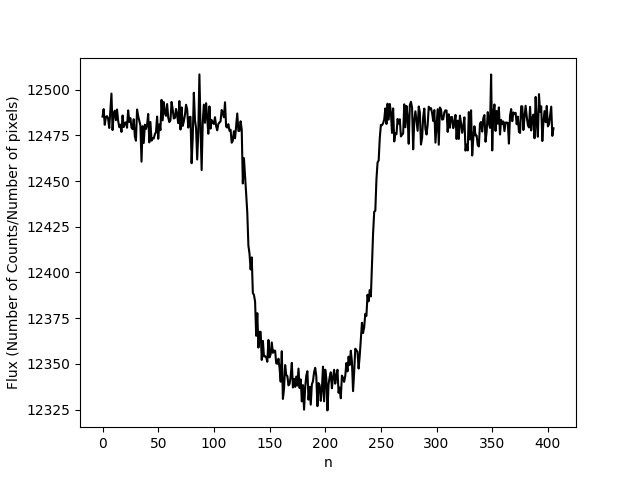
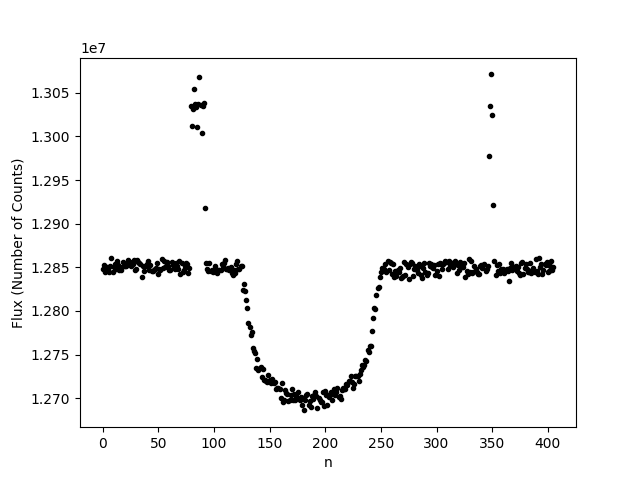
Changed method of calculating dispersion to std/mean of first 50 flux points

diff --git a/src/photometry.py b/src/photometry.py
@@ -7,7 +7,7 @@ t0 = clock()
 
 ######### Opening images #########
 
-hdulist = fits.open("TrabalhoComputacional/CH_PR100010_TG023201_TU2019-10-06T09-40-30_SCI_RAW_SubArray_V0000.fits")
+hdulist = fits.open("../../TrabalhoComputacional/CH_PR100010_TG023201_TU2019-10-06T09-40-30_SCI_RAW_SubArray_V0000.fits")
 
 # Header
 header_subarray = hdulist[1].header
@@ -26,13 +26,13 @@ overscanleft = hdulist[7].data
 
 # Applying Overscan to Images (Average over all points of the overscan)
 
-images_b = np.zeros(images.shape) # Images without BIAS # IF USING ZEROS_LIKE, STRANGE BUG
+images_b = np.zeros(images.shape) # Images without BIAS
 for i in range(nimage):
 	images_b[i] = images[i] - np.average(overscanleft[i])
 
 ######### Flat Field #########
 
-hdulist_ff = fits.open("TrabalhoComputacional/CH_PR100010_TG023201_TU2019-10-06T09-40-00_SIM_TRU_FlatField_V0000.fits")
+hdulist_ff = fits.open("../../TrabalhoComputacional/CH_PR100010_TG023201_TU2019-10-06T09-40-00_SIM_TRU_FlatField_V0000.fits")
 
 # Determining Flat Field subarray with the Object
 ff = hdulist_ff[1].data
@@ -75,8 +75,8 @@ for i in range(nimage):
 
 from canny_edge_detection import canny_detect
 
-sigma = 0.6
-T = 4000
+sigma = 1.1
+T = 3500
 t = T*0.3
 
 target_indx = canny_detect(images_filt[0],R[0],sigma,t,T) # Indexes of the target's area
@@ -100,42 +100,58 @@ for i in range(nimage):
 	hist, bins = np.histogram(img[(r_i > r_min)],bins=1000)
 
 	background_mode[i] = np.min(bins[np.where(hist == np.max(hist))])
+
+	background_avg[i] = np.average(img[(r_i > r_min)])
 	
 	img -= background_mode[i]
+	#img -= background_avg[i]
 
 	N_counts[i] = np.sum(img[target_indx[0] - 100 + R[i][1],target_indx[1] - 100 + R[i][0]])
 
 print(clock()-t0)
 
-Flux = N_counts/target_indx.size
+Flux = N_counts
+
+img_pts = np.arange(0,nimage,1)
 
 plt.figure(1)
-plt.plot(Flux,color='k')
-plt.ylabel('Flux (Number of Counts/Number of pixels)')
+plt.scatter(img_pts,Flux,color='k',marker='.')
+plt.ylabel('Flux (Number of Counts)')
 plt.xlabel('n')
 
 plt.figure(2)
-plt.plot(background_mode,color='k')
+plt.scatter(img_pts,background_mode,color='k',marker='.')
 plt.ylabel('Background Mode')
 plt.xlabel('n')
 
 plt.figure(3)
-plt.plot(background_avg,color='k')
+plt.scatter(img_pts,background_avg,color='k',marker='.')
 plt.ylabel('Background Average')
 plt.xlabel('n')
 
+plt.show()
+
+"""
 # Calculate dispersion
 dispersion = abs((Flux - np.roll(Flux,1))/(np.max(Flux)-np.min(Flux))*100)
 plt.figure(4)
-plt.plot(dispersion,color='k')
-plt.ylabel('Dispersion (\% of max(Flux) - min(Flux))')
+plt.scatter(img_pts,dispersion,color='k',marker='.')
+plt.ylabel('Dispersion (%) (% of max(Flux) - min(Flux))')
 plt.xlabel('n')
+"""
+# Calculate standard deviation
+
+N = 50
+std_dev = np.std(Flux[:N])/np.mean(Flux[:N])*100
+
+print('Standard deviation of first %s points is: %s' %(N,round(std_dev,3)) + '%')
 
 ##### Optimization #####
-"""
-T_vals = np.arange(1000,10000,200)
+
+T_vals = np.arange(1000,20000,400)
 #T_vals = np.arange(2000,6000,50) # MINIMO DE DISPERSAO PARA T ~= 3500
 dispersion = np.zeros(len(T_vals))
+max_Flux = np.zeros(len(T_vals))
 for k in range(len(T_vals)):
 	T = T_vals[k]
 	print(T)
@@ -191,15 +207,23 @@ for k in range(len(T_vals)):
 	Flux = N_counts/target_indx.size
 
 	# Calculate dispersion
-	dispersion[k] = np.max((Flux - np.roll(Flux,1))/(np.max(Flux)-np.min(Flux))*100)
+	dispersion[k] = np.std(Flux[:N])/np.mean(Flux[:N])*100
+	max_Flux[k] = np.average(Flux)
 
 plt.figure(5)
 plt.plot(T_vals,dispersion,color='k')
-plt.ylabel('Dispersion (\% of max(Flux) - min(Flux))')
+plt.ylabel('Dispersion (%)')
 plt.xlabel('Higher Threshold values')
-plt.xticks(np.arange(1000,11000,1000))
+plt.xticks(np.arange(1000,21000,2000))
 
-S_vals = np.arange(0.1,1,0.05) # MINIMO DE DISPERSÃO PARA 0.5 SIGMA\
+plt.figure(1213)
+plt.plot(T_vals,max_Flux,color='k')
+plt.ylabel('Average of Flux')
+plt.xlabel('Higher Threshold values')
+plt.xticks(np.arange(1000,21000,2000))
+
+
+S_vals = np.arange(0.1,2.,0.05) # MINIMO DE DISPERSÃO PARA 0.5 SIGMA\
 dispersion = np.zeros(len(S_vals))
 for k in range(len(S_vals)):
 	sigma = S_vals[k]
@@ -256,18 +280,18 @@ for k in range(len(S_vals)):
 	Flux = N_counts/target_indx.size
 
 	# Calculate dispersion
-	dispersion[k] = np.max((Flux - np.roll(Flux,1))/(np.max(Flux)-np.min(Flux))*100)
+	dispersion[k] = np.std(Flux[:N])/np.mean(Flux[:N])*100
 
 plt.figure(6)
 plt.plot(S_vals,dispersion,color='k')
-plt.ylabel('Dispersion (\% of max(Flux) - min(Flux))')
+plt.ylabel('Dispersion (%)')
 plt.xlabel('Sigma values')
-plt.xticks(np.arange(0.1,1.1,0.1))
+plt.xticks(np.arange(0.1,2.1,0.1))
 
 
 T = 4000
 
-t_vals = np.arange(0.1,1,0.05) # MINIMO DE DISPERSÃO PARA 0.5 SIGMA\
+t_vals = np.arange(0.1,1,0.5) # MINIMO DE DISPERSÃO PARA 0.5 SIGMA\
 dispersion = np.zeros(len(t_vals))
 for k in range(len(t_vals)):
 	sigma = S_vals[k]
@@ -324,13 +348,13 @@ for k in range(len(t_vals)):
 	Flux = N_counts/target_indx.size
 
 	# Calculate dispersion
-	dispersion[k] = np.max((Flux - np.roll(Flux,1))/(np.max(Flux)-np.min(Flux))*100)
+	dispersion[k] = np.std(Flux[:N])/np.mean(Flux[:N])*100
 
 plt.figure(7)
 plt.plot(t_vals,dispersion,color='k')
-plt.ylabel('Dispersion (\% of max(Flux) - min(Flux))')
+plt.ylabel('Dispersion (%)')
 plt.xlabel('Lower Threshold values (fraction of Higher Threshold)')
-plt.xticks(np.arange(0.1,1.1,0.1))
+plt.xticks(np.arange(0.1,1.1,0.25))
 """
 """
 r_CM_vals = np.arange(10,80,5)
@@ -392,11 +416,11 @@ for k in range(len(r_CM_vals)):
 	Flux = N_counts/target_indx.size
 
 	# Calculate dispersion
-	dispersion[k] = np.max((Flux - np.roll(Flux,1))/(np.max(Flux)-np.min(Flux))*100)
+	dispersion[k] = np.std(Flux[:N])/np.mean(Flux[:N])*100
 
 plt.figure(8)
 plt.plot(r_CM_vals,dispersion,color='k')
-plt.ylabel('Dispersion (\% of max(Flux) - min(Flux))')
+plt.ylabel('Dispersion (%)')
 plt.xlabel('Square side used for CM calculation')
 plt.xticks(np.arange(10,80,10))
 
@@ -460,12 +484,12 @@ for k in range(len(r_min_vals)):
 	Flux = N_counts/target_indx.size
 
 	# Calculate dispersion
-	dispersion[k] = np.max((Flux - np.roll(Flux,1))/(np.max(Flux)-np.min(Flux))*100)
+	dispersion[k] = np.std(Flux[:N])/np.mean(Flux[:N])*100
 
 plt.figure(9)
 plt.plot(r_CM_vals,dispersion,color='k')
-plt.ylabel('Dispersion (\% of max(Flux) - min(Flux))')
+plt.ylabel('Dispersion (%)')
 plt.xlabel('Radius used for Background calculation')
 plt.xticks(np.arange(10,80,10))
-"""
+
 plt.show()

diff --git a/src/reduction.py b/src/reduction.py
@@ -7,7 +7,7 @@ t0 = clock()
 
 ######### Opening images #########
 
-hdulist = fits.open("TrabalhoComputacional/CH_PR100010_TG023201_TU2019-10-06T09-40-30_SCI_RAW_SubArray_V0000.fits")
+hdulist = fits.open("../../TrabalhoComputacional/CH_PR100010_TG023201_TU2019-10-06T09-40-30_SCI_RAW_SubArray_V0000.fits")
 
 # Header
 header_subarray = hdulist[1].header
@@ -32,7 +32,7 @@ for i in range(nimage):
 
 ######### Flat Field #########
 
-hdulist_ff = fits.open("TrabalhoComputacional/CH_PR100010_TG023201_TU2019-10-06T09-40-00_SIM_TRU_FlatField_V0000.fits")
+hdulist_ff = fits.open("../../TrabalhoComputacional/CH_PR100010_TG023201_TU2019-10-06T09-40-00_SIM_TRU_FlatField_V0000.fits")
 
 # Determining Flat Field subarray with the Object
 ff = hdulist_ff[1].data
@@ -75,15 +75,11 @@ for i in range(nimage):
 
 from canny_edge_detection import canny_detect
 
-sigma = 0.6 # Determined empirically
-T = 10000 # Determined empirically
+sigma = 1.1 # Determined empirically
+T = 4000 # Determined empirically
 t = T*0.3 # Determined empirically
 
 target_indx = canny_detect(images_f[0],R[0],sigma,t,T)
-"""for i in range(1,nimage):
-	canny_indx = canny_detect(images_filt[i],R[i],sigma,t,T) # Indexes of the target's area
-	if canny_indx.size > target_indx.size:
-		target_indx = canny_indx"""
 
 ######### Photometry #########
 
@@ -115,13 +111,15 @@ for i in range(nimage):
 	plt.imshow(img)
 	plt.pause(0.1)"""
 
-Flux = N_counts/target_indx.size
+Flux = N_counts
 
 print('Total time elapsed: %s' %(clock() - t0))
 
+img_pts = np.arange(0,nimage,1)
+
 plt.figure(1)
-plt.scatter(np.arange(0,nimage,1),Flux,color='k')
-plt.ylabel('Flux (Number of Counts/Number of pixels)')
+plt.scatter(img_pts,Flux,color='k',marker='.')
+plt.ylabel('Flux (Number of Counts)')
 plt.xlabel('n')
 plt.show()
 

diff --git a/src/canny_test.py b/src/canny_test.py
@@ -7,7 +7,7 @@ t0 = clock()
 
 ######### Opening images #########
 
-hdulist = fits.open("TrabalhoComputacional/CH_PR100010_TG023201_TU2019-10-06T09-40-30_SCI_RAW_SubArray_V0000.fits")
+hdulist = fits.open("../../TrabalhoComputacional/CH_PR100010_TG023201_TU2019-10-06T09-40-30_SCI_RAW_SubArray_V0000.fits")
 
 # Header
 header_subarray = hdulist[1].header
@@ -32,7 +32,7 @@ for i in range(nimage):
 
 ######### Flat Field #########
 
-hdulist_ff = fits.open("TrabalhoComputacional/CH_PR100010_TG023201_TU2019-10-06T09-40-00_SIM_TRU_FlatField_V0000.fits")
+hdulist_ff = fits.open("../../TrabalhoComputacional/CH_PR100010_TG023201_TU2019-10-06T09-40-00_SIM_TRU_FlatField_V0000.fits")
 
 # Determining Flat Field subarray with the Object
 ff = hdulist_ff[1].data
@@ -76,7 +76,7 @@ for i in range(nimage):
 from canny_edge_detection import canny_detect
 
 sigma = 0.6 # Determined empirically
-T = 4000 # Determined empirically
+T = 10000 # Determined empirically
 t = T*0.3 # Determined empirically
 
 img = np.zeros(images.shape) # Filtered image
@@ -89,9 +89,9 @@ for i in range(nimage):
 
 plt.figure(1)
 plt.imshow(images_f[0],cmap='gray')
-plt.imsave('Report/figs/img_0.png',arr = images_f[0],cmap = 'gray')
+#plt.imsave('../report/figs/img_0.png',arr = images_f[0],cmap = 'gray')
 
 plt.figure(2)
 plt.imshow(img[0],cmap='gray')
-plt.imsave('Report/figs/img_0_canny.png',arr = img[0],cmap = 'gray')
+#plt.imsave('../report/figs/img_0_canny.png',arr = img[0],cmap = 'gray')
 plt.show()

diff --git a/report/report.tex b/report/report.tex
@@ -128,7 +128,7 @@ Even though this is the standard procedure to perform the canny edge algorithm, 
 
 The same principle (used in the calculation of the center of mass) of applying the algorithm to a box centered on the image was utilized here in order to find only the edges of the target. As such, this algorithm, if correctly applied - using optimized parameters of filter $\sigma$ and double thresholds, discussed in Sec. \ref{sec:param_opt} - should return the area of the target in a specific image.
 
-As can be seen in Fig. \ref{fig:img_0_canny}, the algorithm seems to be a good candidate for detecting the target's area, for as much as can be seen with the naked eye. This figure was obtained with $\sigma = 0.6$, higher threshold, $T = 4000$ and lower threshold, $t = 0.3T$.
+As can be seen in Fig. \ref{fig:img_0_canny}, the algorithm seems to be a good candidate for detecting the target's area, for as much as can be seen with the naked eye. This figure was obtained with $\sigma = 0.6$, higher threshold $T = 4000$ and lower threshold $t = 0.3T$.
 
 \begin{figure}
 \centering
@@ -139,6 +139,8 @@ As can be seen in Fig. \ref{fig:img_0_canny}, the algorithm seems to be a good c
 \caption{Comparison of image 0 target with detected area.}
 \label{fig:img_0_canny}
 \end{figure}
+
+
 
 
 \section{Photometry}
